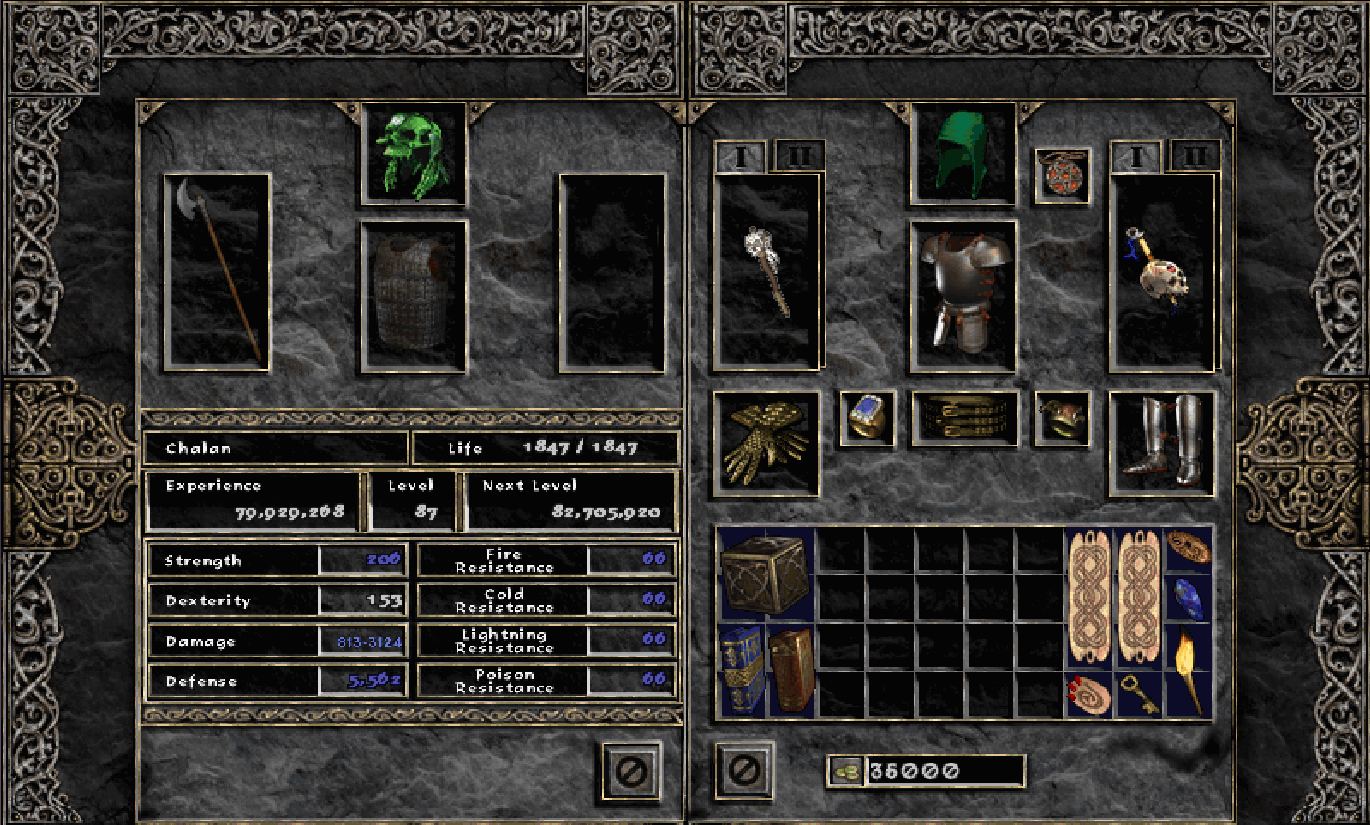
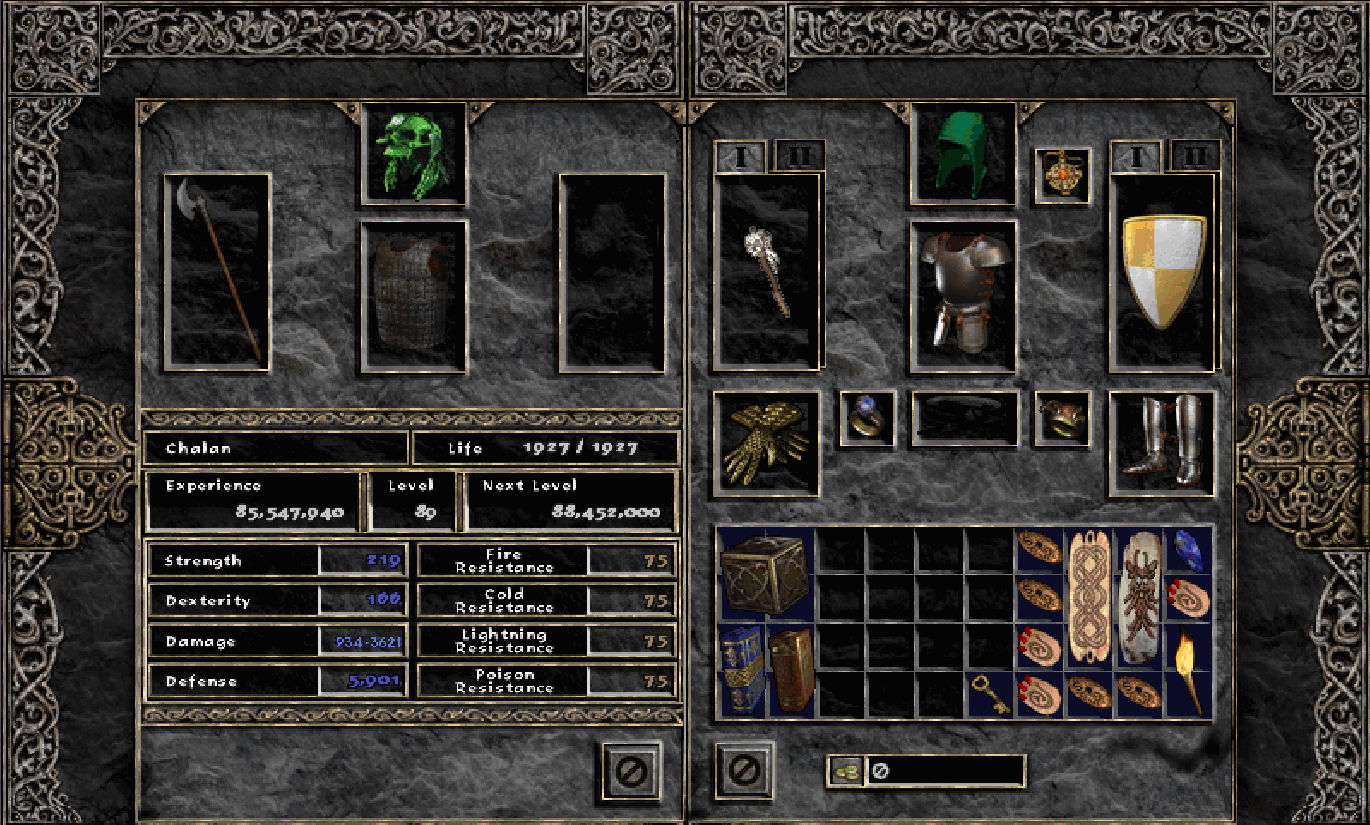
updated venalse

diff --git a/Script.js b/Script.js
@@ -51,6 +51,17 @@ var VenalsEcharm5 = new Image();
 VenalsEcharm5.src = "./D2 Stream/VenalsE/GearInfo/charm5.png";
 var VenalsEcharm6 = new Image();
 VenalsEcharm6.src = "./D2 Stream/VenalsE/GearInfo/charm6.png";
+var VenalsEcharm7 = new Image();
+VenalsEcharm7.src = "./D2 Stream/VenalsE/GearInfo/charm7.png";
+var VenalsEcharm8 = new Image();
+VenalsEcharm8.src = "./D2 Stream/VenalsE/GearInfo/charm8.png";
+var VenalsEcharm9 = new Image();
+VenalsEcharm9.src = "./D2 Stream/VenalsE/GearInfo/charm9.png";
+var VenalsEcharm10 = new Image();
+VenalsEcharm10.src = "./D2 Stream/VenalsE/GearInfo/charm10.png";
+var VenalsEcharm11 = new Image();
+VenalsEcharm11.src = "./D2 Stream/VenalsE/GearInfo/charm11.png";
+
 //Venalse Merc
 var VenalsEmercwep1 = new Image();
 VenalsEmercwep1.src = "./D2 Stream/VenalsE/GearInfo/mercwep1.png";
@@ -258,18 +269,32 @@ $(document).ready(function init() {
                     setHover(slots, VenalsEmercarmor, invCtx);
                     slots = ["merchelm"];
                     setHover(slots, VenalsEmerchelm, invCtx);
-                    slots = ["inv8", "inv18", "inv28"];
+                    slots = ["inv7"];
                     setHover(slots, VenalsEcharm1, invCtx);
-                    slots = ["inv9", "inv19", "inv29"];
+                    slots = ["inv8", "inv18", "inv28"];
                     setHover(slots, VenalsEcharm2, invCtx);
-                    slots = ["inv10"];
+                    slots = ["inv9", "inv19", "inv29"];
                     setHover(slots, VenalsEcharm3, invCtx);
-                    slots = ["inv20"];
+                    slots = ["inv10"];
                     setHover(slots, VenalsEcharm4, invCtx);
-                    slots = ["inv30", "inv40"];
+                    slots = ["inv17"];
                     setHover(slots, VenalsEcharm5, invCtx);
-                    slots = ["inv38"];
+                    slots = ["inv20"];
                     setHover(slots, VenalsEcharm6, invCtx);
+                    slots = ["inv27"];
+                    setHover(slots, VenalsEcharm7, invCtx);
+                    slots = ["inv30", "inv40"];
+                    setHover(slots, VenalsEcharm8, invCtx);
+                    slots = ["inv37"];
+                    setHover(slots, VenalsEcharm9, invCtx);
+                    slots = ["inv38"];
+                    setHover(slots, VenalsEcharm10, invCtx);
+                    slots = ["inv39"];
+                    setHover(slots, VenalsEcharm11, invCtx);
+
+
+
+
                     break;
                 case "FalsmitE":
 
